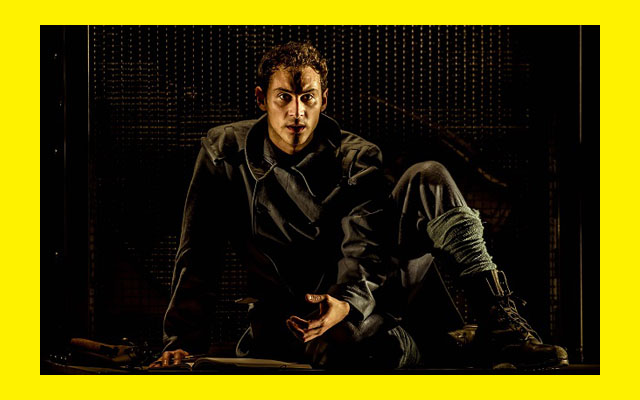
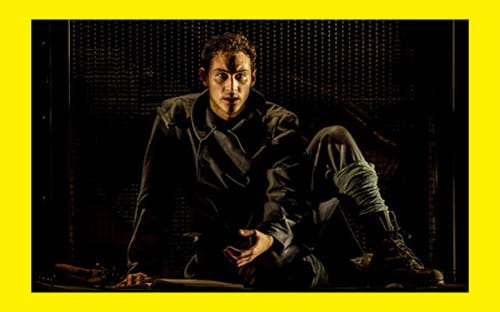
Cambios en imagenes y optimizacion

diff --git a/MateoRubistein/Web/index.html b/MateoRubistein/Web/index.html
@@ -81,7 +81,7 @@
     <br />
     <div class=" col-sm-12 col-lg-4 offset-lg-4 offset-sm-0 col-md-6 offset-md-3 d-flex justify-content-center">
         <span>
-            <h2>Noticias</h2>
+            <h2>Últimas Novedades</h2>
         </span>
     </div>
     <br />
@@ -119,7 +119,7 @@
                     <!-- Noticia 3-->
 
                     <div class="col-4 float-left">
-                        <img class="img-fluid" src="assets//img/miniaturas/MateoRubistein_NoticiaMax.png">
+                        <img class="img-fluid" src="assets//img/miniaturas/MateoRubistein_NoticiaMax.jpg">
                         "Vidas Enterradas", <strong>candidata de la XXIII edición de los Premios Max de las Artes Escénicas</strong>.
                         <br />
                         <a href="https://www.heraldo.es/noticias/ocio-y-cultura/2020/03/06/teatro-del-templeatesora-una-cuarta-candidatura-a-los-max-por-vidas-enterradas-1362515.html" target="_blank">

diff --git a/MateoRubistein/Web/index-en.html b/MateoRubistein/Web/index-en.html
@@ -117,7 +117,7 @@
                     <!-- Noticia 3-->
 
                     <div class="col-4 float-left">
-                        <img class="img-fluid" src="assets//img/miniaturas/MateoRubistein_NoticiaMax.png">
+                        <img class="img-fluid" src="assets//img/miniaturas/MateoRubistein_NoticiaMax.jpg">
                         "Buried Lives", <strong>nominated in the XXIII edition of the spanish Max Awards for the Performing Arts</strong>.
                         <br />
                         <a href="https://www.heraldo.es/noticias/ocio-y-cultura/2020/03/06/teatro-del-templeatesora-una-cuarta-candidatura-a-los-max-por-vidas-enterradas-1362515.html" target="_blank">
